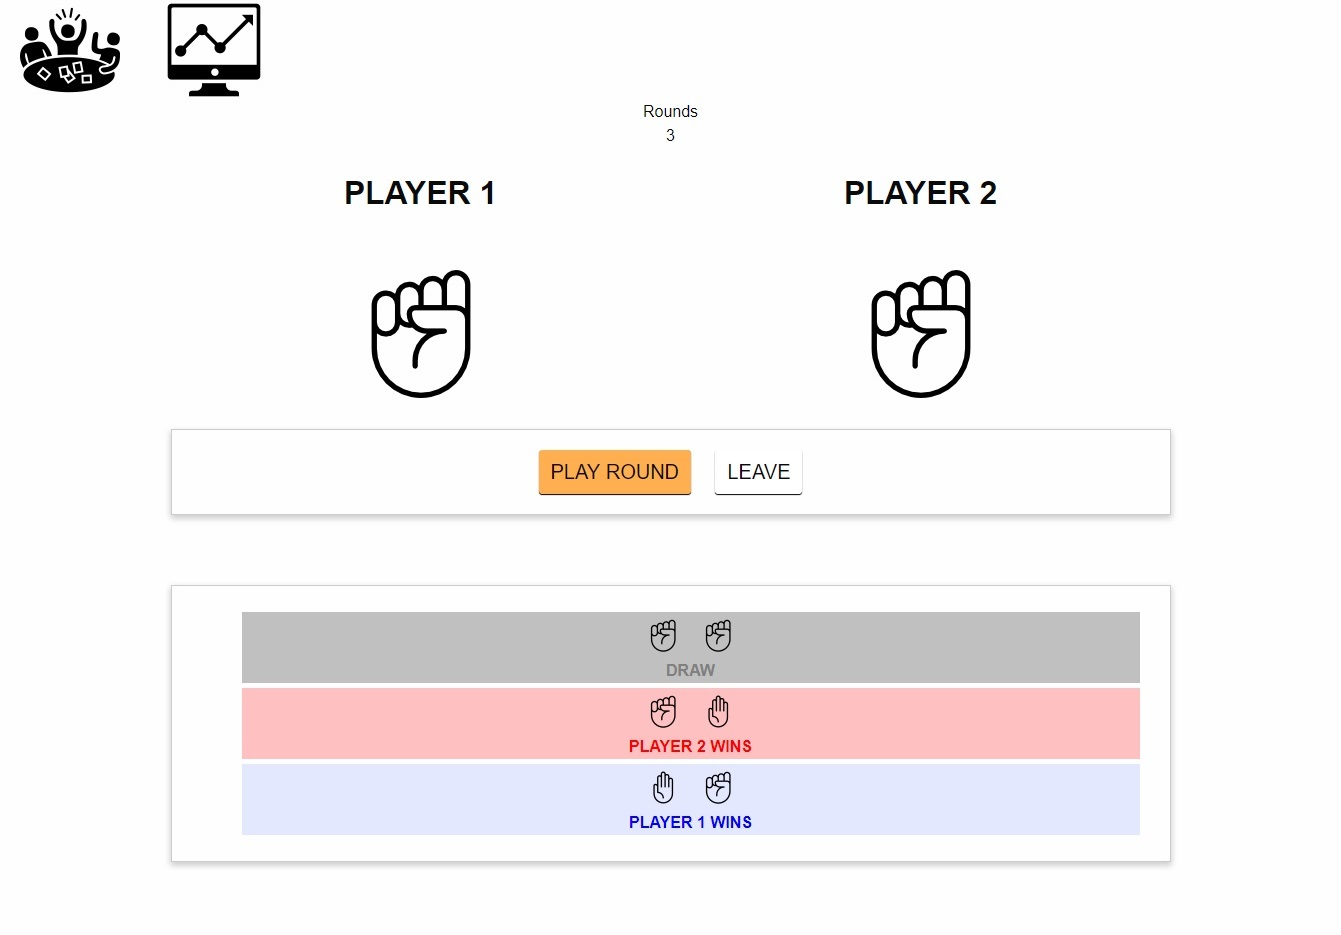
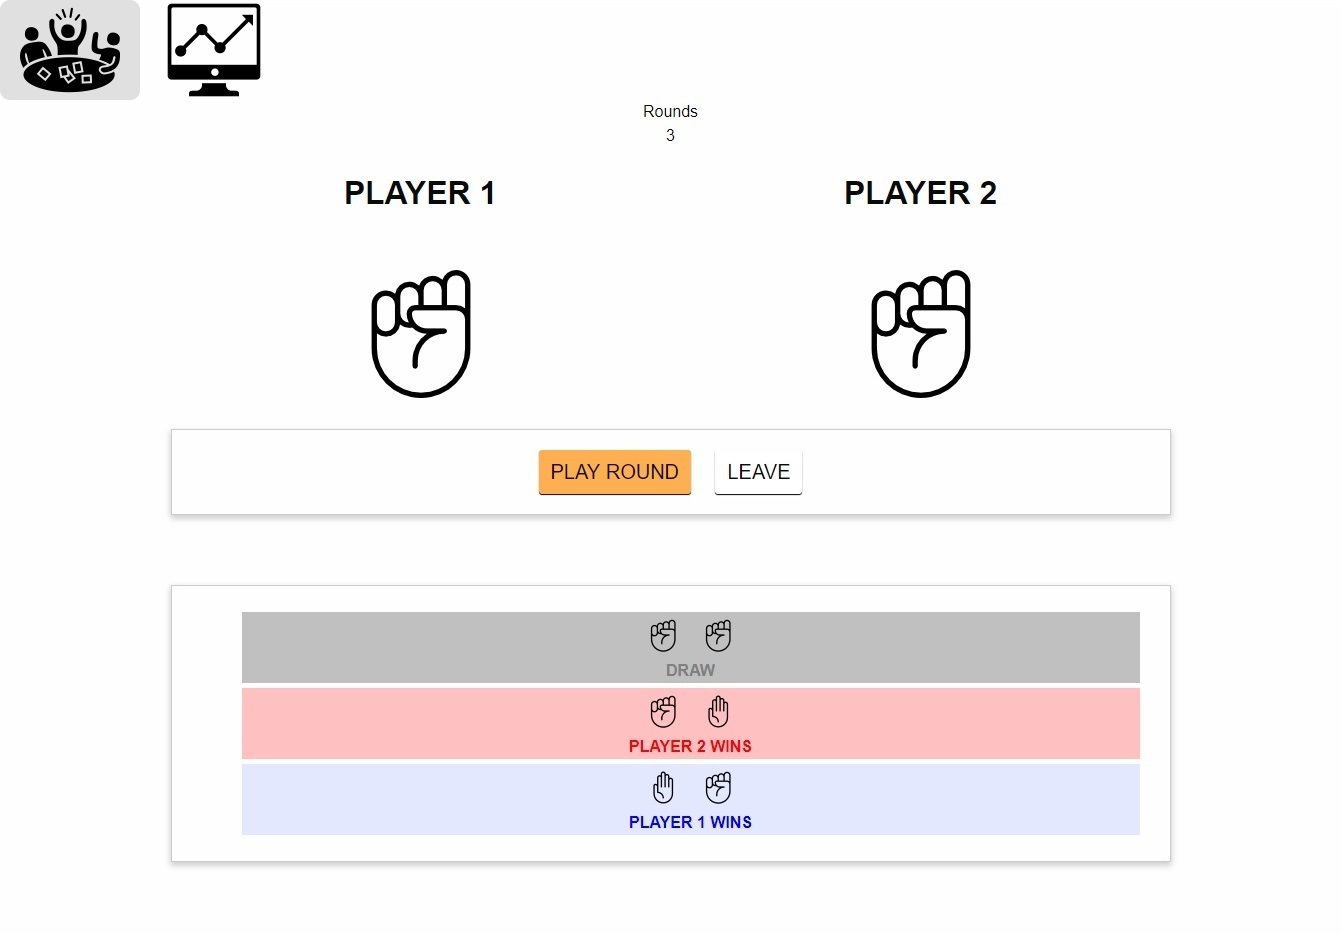
Active-link in nav menu added Transition added Screenshots updated

Changed region(s): [[0.0, 0.0, 0.1223, 0.1241]]

diff --git a/front/rock/index.html b/front/rock/index.html
@@ -18,14 +18,16 @@
 <body>
 <div id="app">
     <!-- link to game view -->
-    <router-link to="/Game"><img class="nav" src="./img/players.png" alt="Go to game" title="Go to game" width="100px"/></router-link>
+    <router-link to="/Game" active-class="active-link"><img class="nav" src="./img/players.png" alt="Go to game" title="Go to game" width="100px"/></router-link>
     <!-- link to statistics view -->
-    <router-link to="/Statistics"><img class="nav" src="./img/analytics.jpg" alt="Go to analytics" title="Go to analytics" width="100px"/></router-link>
+    <router-link to="/Statistics" active-class="active-link"><img class="nav" src="./img/analytics.jpg" alt="Go to analytics" title="Go to analytics" width="100px"/></router-link>
 
-    <!-- app view -->
-    <keep-alive include="Game">
-        <router-view></router-view>
-    </keep-alive>
+    <transition name="fade" mode="out-in">
+        <!-- app view -->
+        <keep-alive include="Game">
+            <router-view></router-view>
+        </keep-alive>
+    </transition>
 </div>
 <script src="app.js"></script> <!-- script for vue initialization -->
 </body>

diff --git a/front/rock/css/app.css b/front/rock/css/app.css
@@ -9,6 +9,26 @@
     margin-top: 200px;
 }
 
+.active-link {
+    background-color: #e0e0e0;
+    display: inline-block;
+    border-radius: 10px;
+}
+
+/* begin transition */
+.fade-enter-active,
+.fade-leave-active {
+  transition-duration: 0.3s;
+  transition-property: opacity;
+  transition-timing-function: ease;
+}
+
+.fade-enter,
+.fade-leave-active {
+  opacity: 0
+}
+/* end transition */
+
 .text-center {
     text-align: center;
 }
@@ -16,7 +36,6 @@
 .playerbox {
     width: 80%;
     height: 40px;
-    /* background-color: #eee; */
     margin: auto;
     transition: width 500ms;
 }
